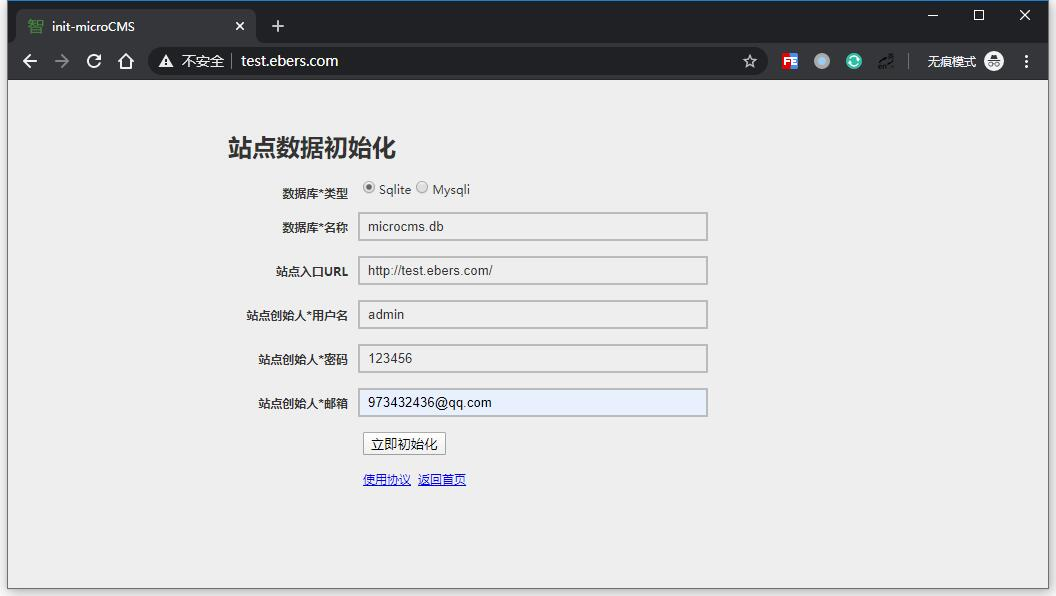
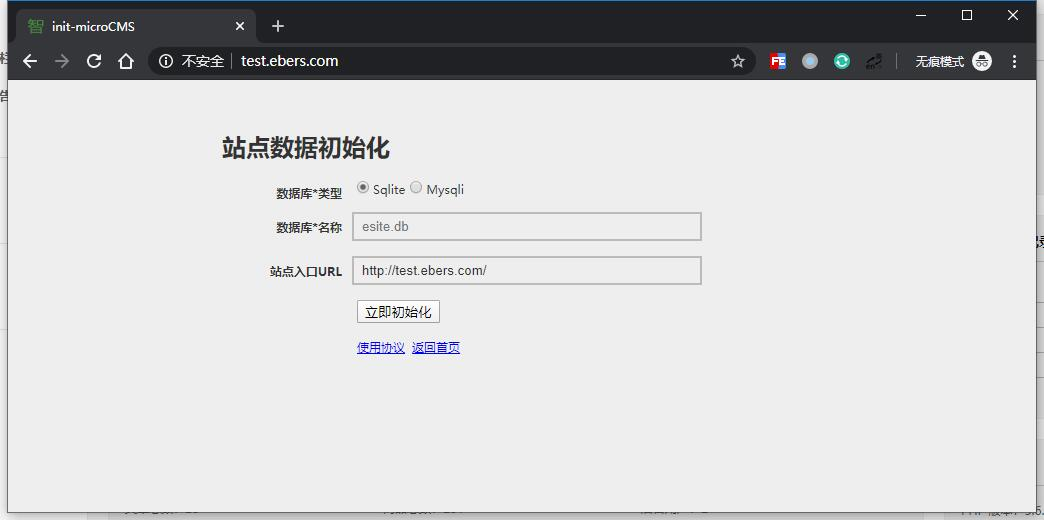
.

diff --git a/index.released.php b/index.released.php
@@ -27,7 +27,7 @@ S;
 		.calendarToday { background-color: #CE0000; text-align: center;}
 		.calendar .hitDay{ background-color: #FF9797; }
 		</style>
-	';protected static $date=array();private static $_instance;private function __construct(){}private function __clone(){}public static function app(){if(!(self::$_instance instanceof self)){self::$_instance=new self();self::$date=getdate(time());self::$monthLink=self::$monthLink?(self::$monthLink):getenv('SCRIPT_NAME')."?year=%s&month=%s";self::$dayLink=self::$dayLink?(self::$dayLink):getenv('SCRIPT_NAME')."?year=%s&month=%s&day=%s";}return self::$_instance;}public function getCalendarLink($month,$year){$year=str_pad($year,4,0,STR_PAD_LEFT);$month=str_pad($month,2,0,STR_PAD_LEFT);return sprintf(self::$monthLink,$year,$month>0?$month:'');}public function getDateLink($day,$month,$year){$year=str_pad($year,4,0,STR_PAD_LEFT);$month=str_pad($month,2,0,STR_PAD_LEFT);$day=str_pad($day,2,0,STR_PAD_LEFT);return in_array("{$year}-{$month}-{$day}",self::$hitDays)?sprintf(self::$dayLink,$year,$month,$day):'';}public function getCurrentMonthView(){return $this->getMonthView(self::$date["mon"],self::$date["year"]);}public function getCurrentYearView(){return $this->getYearView(self::$date['year']);}public function getMonthView($month,$year){$month=$month?$month:(self::$date['mon']);$year=$year?$year:(self::$date['year']);$s=self::$style;$s.=$this->getMonthHTML($month,$year);return $s;}public function getYearView($year){$s=self::$style;$s.=$this->getYearHTML($year);return $s;}private function getDaysInMonth($month,$year){if($month<1||$month>12||!isset(self::$daysInMonth[$month-1])){return 0;}$d=self::$daysInMonth[$month-1];if($month==2){if($year%4==0){if($year%100==0){if($year%400==0){if($year%1000==0){if($year%4000!=0){$d=29;}}else{$d=29;}}}else{$d=29;}}}return $d;}private function getMonthHTML($m,$y,$showYear=1){$s="";$a=$this->adjustDate($m,$y);$month=$a[0];$year=$a[1];$daysInMonth=$this->getDaysInMonth($month,$year);$date=getdate(mktime(12,0,0,$month,1,$year));$first=$date["wday"];$monthName=self::$monthNames[$month-1];$prev=$this->adjustDate($month-1,$year);$next=$this->adjustDate($month+1,$year);if($showYear==1){$prevMonth=$this->getCalendarLink($prev[0],$prev[1]);$nextMonth=$this->getCalendarLink($next[0],$next[1]);}else{$prevMonth="";$nextMonth="";}$header=sprintf('<a href="%s" class="calendarDateTitle">%s</a>',$this->getCalendarLink(($showYear>0?0:$month),$year),($monthName.(($showYear>0)?" {$year}":"")));$s.="<table class=\"calendar\">\n";$s.="<tr>\n";$s.="<td align=\"center\" valign=\"top\">".(($prevMonth=="")?"&nbsp;":"<a href=\"{$prevMonth}\">&lt;&lt;</a>")."</td>\n";$s.="<td align=\"center\" valign=\"top\" class=\"calendarHeader\" colspan=\"5\">{$header}</td>\n";$s.="<td align=\"center\" valign=\"top\">".(($nextMonth=="")?"&nbsp;":"<a href=\"{$nextMonth}\">&gt;&gt;</a>")."</td>\n";$s.="</tr>\n";$s.="<tr>\n";$s.="<td align=\"center\" valign=\"top\" class=\"calendarHeader\">".self::$dayNames[(self::$startDay)%7]."</td>\n";$s.="<td align=\"center\" valign=\"top\" class=\"calendarHeader\">".self::$dayNames[(self::$startDay+1)%7]."</td>\n";$s.="<td align=\"center\" valign=\"top\" class=\"calendarHeader\">".self::$dayNames[(self::$startDay+2)%7]."</td>\n";$s.="<td align=\"center\" valign=\"top\" class=\"calendarHeader\">".self::$dayNames[(self::$startDay+3)%7]."</td>\n";$s.="<td align=\"center\" valign=\"top\" class=\"calendarHeader\">".self::$dayNames[(self::$startDay+4)%7]."</td>\n";$s.="<td align=\"center\" valign=\"top\" class=\"calendarHeader\">".self::$dayNames[(self::$startDay+5)%7]."</td>\n";$s.="<td align=\"center\" valign=\"top\" class=\"calendarHeader\">".self::$dayNames[(self::$startDay+6)%7]."</td>\n";$s.="</tr>\n";$d=self::$startDay+1-$first;while($d>1){$d-=7;}$today=getdate(time());while($d<=$daysInMonth){$s.="<tr>\n";for($i=0;$i<7;$i++){$class=$this->isHitDay($d,$month,$year)?"hitDay":"";$class.=($year==$today["year"]&&$month==$today["mon"]&&$d==$today["mday"])?" calendarToday":" calendar";$s.="<td class=\"{$class}\" align=\"right\" valign=\"top\">";if($d>0&&$d<=$daysInMonth){$link=$this->getDateLink($d,$month,$year);$s.=(($link=="")?$d:"<a href=\"{$link}\">{$d}</a>");}else{$s.="&nbsp;";}$s.="</td>\n";$d++;}$s.="</tr>\n";}$s.="</table>\n";return $s;}private function getYearHTML($year){$s="";$prev=$this->getCalendarLink(0,$year-1);$next=$this->getCalendarLink(0,$year+1);$s.="<table class=\"calendar\" border=\"0\">\n";$s.="<tr>";$s.="<td align=\"center\" valign=\"top\" align=\"left\">".(($prev=="")?"&nbsp;":"<a href=\"{$prev}\">&lt;&lt;</a>")."</td>\n";$s.="<td class=\"calendarHeader\" valign=\"top\" align=\"center\">".((self::$startMonth>1)?$year." - ".($year+1):$year)."</td>\n";$s.="<td align=\"center\" valign=\"top\" align=\"right\">".(($next=="")?"&nbsp;":"<a href=\"{$next}\">&gt;&gt;</a>")."</td>\n";$s.="</tr>\n";$s.="<tr>";$s.="<td class=\"calendar\" valign=\"top\">".$this->getMonthHTML(0+self::$startMonth,$year,0)."</td>\n";$s.="<td class=\"calendar\" valign=\"top\">".$this->getMonthHTML(1+self::$startMonth,$year,0)."</td>\n";$s.="<td class=\"calendar\" valign=\"top\">".$this->getMonthHTML(2+self::$startMonth,$year,0)."</td>\n";$s.="</tr>\n";$s.="<tr>\n";$s.="<td class=\"calendar\" valign=\"top\">".$this->getMonthHTML(3+self::$startMonth,$year,0)."</td>\n";$s.="<td class=\"calendar\" valign=\"top\">".$this->getMonthHTML(4+self::$startMonth,$year,0)."</td>\n";$s.="<td class=\"calendar\" valign=\"top\">".$this->getMonthHTML(5+self::$startMonth,$year,0)."</td>\n";$s.="</tr>\n";$s.="<tr>\n";$s.="<td class=\"calendar\" valign=\"top\">".$this->getMonthHTML(6+self::$startMonth,$year,0)."</td>\n";$s.="<td class=\"calendar\" valign=\"top\">".$this->getMonthHTML(7+self::$startMonth,$year,0)."</td>\n";$s.="<td class=\"calendar\" valign=\"top\">".$this->getMonthHTML(8+self::$startMonth,$year,0)."</td>\n";$s.="</tr>\n";$s.="<tr>\n";$s.="<td class=\"calendar\" valign=\"top\">".$this->getMonthHTML(9+self::$startMonth,$year,0)."</td>\n";$s.="<td class=\"calendar\" valign=\"top\">".$this->getMonthHTML(10+self::$startMonth,$year,0)."</td>\n";$s.="<td class=\"calendar\" valign=\"top\">".$this->getMonthHTML(11+self::$startMonth,$year,0)."</td>\n";$s.="</tr>\n";$s.="</table>\n";return $s;}private function adjustDate($month,$year){$a=array();$a[0]=$month;$a[1]=$year;while($a[0]>12){$a[0]-=12;$a[1]++;}while($a[0]<=0){$a[0]+=12;$a[1]--;}return $a;}private function isHitDay($day,$month,$year){return in_array("{$year}-{$month}-".str_pad($day,2,0,STR_PAD_LEFT),self::$hitDays);}}interface Db_Drive{public function exec($sql);public function query($sql);public function getRow($sql,$model);public function getAll($sql);public function insert($table,$data,$ignore=false);public function insert_string($table,$data,$ignore=false);public function replace($table,$data);public function replace_string($table,$data);public function update($table,$args,$where='');public function update_string($table,$args,$where='');public function delete($table,$where);public function getCode($args);public function last_insert_id();public function get_info();public function getCache($sql,$expire_time=0);public function setCache($sql,$data);public function delCache();public function getTables();}class DBSqlite3 extends SQLite3 {protected $db_name='esite.db';public $info=array('error_code'=>0,'error_msg'=>'','changes'=>0,'queries'=>array());public $cache_path='cache/data-cache';public $expire_time=300;public $auth_key='';public function __construct($db_name=''){$this->db_name=$db_name?$db_name:$this->db_name;if(!file_exists($this->db_name)){file_put_contents($this->db_name,'');}$this->open($this->db_name);$this->get_info();if($this->info['error_code']>0){die($this->info['error_msg']);}return $this;}public function getCache($sql,$expire_time=0){$expire_time=$expire_time>0?$expire_time:$this->expire_time;$filename=$this->cache_path.'/'.md5(md5($this->auth_key).md5($sql)).'.cache';if(file_exists($filename)&&time()-filemtime($filename)<$expire_time){return (array)include($filename);}else{return null;}}public function setCache($sql,$data){$filename=$this->cache_path.'/'.md5(md5($this->auth_key).md5($sql)).'.cache';file_put_contents($filename,'<?php return '.var_export($data,1).';?>');}public function delCache(){$files=glob("{$this->cache_path}/*.cache");if($files){array_map('unlink',$files);}}public function get_info(){$this->info['error_code']=$this->lastErrorCode();$this->info['error_msg']=$this->lastErrorMsg();$this->info['changes']=$this->changes();$this->info['queries']=count($this->info['queries'])>50?array_slice($this->info['queries'],-50):$this->info['queries'];return $this->info;}public function query($sql){$res=parent::query($sql);$this->info['queries'][]=$sql;$this->get_info();return $res;}function exec($sql){$res=parent::exec($sql);$this->info['queries'][]=$sql;$this->get_info();return $res;}public function getRow($sql,$model=SQLITE3_ASSOC){if(!is_null($res=$this->getCache($sql))){return $res;}$res=$this->query($sql)->fetchArray($model);$this->setCache($sql,$res);return $res;}public function getAll($sql){if(!is_null($res=$this->getCache($sql))){return $res;}$res=array();if($result=$this->query($sql)){while($row=$result->fetchArray(SQLITE3_ASSOC)){$res[]=$row;}unset($result);}$this->setCache($sql,$res);return $res;}function insert($table,$data,$ignore=false){$sql=$this->insert_string($table,$data,$ignore);return $this->exec($sql);}function insert_string($table,$data,$ignore=false){$sql=sprintf('INSERT %s INTO %s (%s) VALUES (%s)',($ignore?'OR IGNORE':''),($table),(sprintf('%s',implode(',',array_keys($data)))),(sprintf("'%s'",implode("','",array_values($data)))));$sql.=";\n";return $sql;}function replace($table,$data){$sql=$this->replace_string($table,$data);return $this->exec($sql);}function replace_string($table,$data){$sql=sprintf('REPLACE INTO %s (%s) VALUES (%s)',($table),(sprintf('%s',implode(',',array_keys($data)))),(sprintf("'%s'",implode("','",array_values($data)))));$sql.=";\n";return $sql;}function update($table,$args,$where=''){$sql=$this->update_string($table,$args,$where);return $this->exec($sql);}function update_string($table,$args,$where=''){$code=self::getCode($args);$sql="UPDATE {$table} SET ";$sql.=$code;$sql.=($where==''?'':" Where {$where}");$sql.=";\n";return $sql;}function delete($table,$where){$sql="DELETE FROM {$table} Where {$where}";$sql.=';';$res=$this->exec($sql);return $res;}function getCode($args){$code=array();if(is_array($args)){foreach($args as $k=>$v){$code[]="{$k}='{$v}'";}}return implode(',',$code);}function last_insert_id(){$sql="select last_insert_rowid() newid";$res=$this->getRow($sql);return isset($res['newid'])?intval($res['newid']):0;}function getTables(){$res=$this->getAll("SELECT name FROM sqlite_master where type='table' and tbl_name not like 'sqlite_%'");return array_column($res,'name');}function __destruct(){$this->close();}}class Db_Mysql{protected static $conn;protected $dbname='';protected $username='';protected $password='';protected $host='localhost';public $info=array('error_code'=>0,'error_msg'=>'','changes'=>0,'queries'=>array());public $cache_path='cache/data-cache';public $expire_time=300;public $auth_key='';public function __construct($host='',$username='',$password='',$dbname=''){$this->host=$host;$this->username=$username;$this->password=$password;$this->dbname=$dbname;self::$conn=mysqli_connect($this->host,$this->username,$this->password,$this->dbname);if(!self::$conn){die(mysqli_error(self::$conn));}mysqli_query(self::$conn,'set names utf8');return $this;}public function getCache($sql,$expire_time=0){$expire_time=$expire_time>0?$expire_time:$this->expire_time;$filename=$this->cache_path.'/'.md5(md5($this->auth_key).md5($sql)).'.cache';if(file_exists($filename)&&time()-filemtime($filename)<$expire_time){return (array)include($filename);}else{return null;}}public function setCache($sql,$data){$filename=$this->cache_path.'/'.md5(md5($this->auth_key).md5($sql)).'.cache';file_put_contents($filename,'<?php return '.var_export($data,1).';?>');}public function delCache(){$files=glob("{$this->cache_path}/*.cache");if($files){array_map('unlink',$files);}}public function get_info(){$this->info['error_code']=mysqli_errno(self::$conn);$this->info['error_msg']=mysqli_error(self::$conn);$this->info['changes']=mysqli_affected_rows(self::$conn);$this->info['queries']=count($this->info['queries'])>50?array_slice($this->info['queries'],-50):$this->info['queries'];return $this->info;}public function exec($sql){$res=self::query($sql);return $res;}public function query($sql){$res=mysqli_query(self::$conn,$sql);$this->info['queries'][]=$sql;$this->get_info();return $res;}public function getRow($sql,$model=MYSQLI_ASSOC){if(!is_null($res=$this->getCache($sql))){return $res;}$res=$this->query($sql);$row=mysqli_fetch_array($res,MYSQLI_ASSOC);mysqli_free_result($res);unset($res);$this->setCache($sql,$row);return $row;}public function getAll($sql){if(!is_null($res=$this->getCache($sql))){return $res;}$res=$this->query($sql);$list=mysqli_fetch_all($res,MYSQLI_ASSOC);mysqli_free_result($res);unset($res);$this->setCache($sql,$list);return $list;}public function insert($table,$data,$ignore=false){$sql=$this->insert_string($table,$data,$ignore);return $this->query($sql);}public function insert_string($table,$data,$ignore=false){$sql=sprintf('INSERT %s INTO %s (%s) VALUES (%s)',($ignore?'IGNORE':''),($table),(sprintf('%s',implode(',',array_keys($data)))),(sprintf("'%s'",implode("','",array_values($data)))));$sql.=";\n";return $sql;}public function replace($table,$data){$sql=$this->replace_string($table,$data);return $this->query($sql);}public function replace_string($table,$data){$sql=sprintf('REPLACE INTO %s (%s) VALUES (%s)',($table),(sprintf('%s',implode(',',array_keys($data)))),(sprintf("'%s'",implode("','",array_values($data)))));$sql.=";\n";return $sql;}public function update($table,$args,$where=''){$sql=$this->update_string($table,$args,$where);return $this->query($sql);}public function update_string($table,$args,$where=''){$code=self::getCode($args);$sql="UPDATE {$table} SET ";$sql.=$code;$sql.=($where==''?'':" Where {$where}");$sql.=";\n";return $sql;}public function delete($table,$where){$sql="DELETE FROM {$table} Where {$where}";$sql.=';';return $this->query($sql);}public function getCode($args){$code=array();if(is_array($args)){foreach($args as $k=>$v){$code[]="{$k}='{$v}'";}}return implode(',',$code);}function last_insert_id(){$sql="select last_insert_id() newid";$res=$this->getRow($sql);return isset($res['newid'])?intval($res['newid']):0;}function escapeString($str=''){return addslashes($str);}function getTables(){$res=$this->getAll("show tables");return array_column($res,0);}function __destruct(){mysqli_close(self::$conn);}}class DB{protected static $_db;public static $call_struct_init=null;public static function init($dbtype='sqlite',$dbname='',$host='',$username='',$password=''){switch($dbtype){case 'mysqli':self::$_db=new Db_Mysql($host,$username,$password,$dbname);$sql="SELECT COUNT(*) as total FROM information_schema.TABLES where TABLE_SCHEMA = '{$dbname}'";$res=self::$_db->getRow($sql);if((int)$res['total']<2){is_array(self::$call_struct_init)&&self::$call_struct_init?call_user_func_array(self::$call_struct_init,array(self::$_db)):null;}break;default:self::$_db=new DBSqlite3($dbname);$sql="SELECT count(*) as total FROM sqlite_master WHERE type='table' ";$res=self::$_db->getRow($sql);if((int)$res['total']<2){is_array(self::$call_struct_init)&&self::$call_struct_init?call_user_func_array(self::$call_struct_init,array(self::$_db)):null;}break;}return self::$_db;}function __construct(){}}class Esite{public $site_id='@@site_id@@';public $baseurl='@@baseurl@@';public $server_baseurl="http://esitecms.ebers.com/ecms";public $baseurls=array();public $pay_type=array('paypal','alipay');public $api_version='20191216193212';protected $auth_key='@@auth_key@@';protected $db_name='@@db_name@@';protected $db_type='@@db_type@@';protected $db_host='@@db_host@@';protected $db_username='@@db_username@@';protected $db_password='@@db_password@@';public $page_cache='';public $data_cache='';public $page_template='';public $raw_data='';public $cfg=null;public $tpl_expire=300;public $tpl_extension='xml|html';public $themes='default';public $user_device='pc';public $protocol='http';public $url='';public $request_uri='';public $url_maps=array();public $request=array();public static $db;public $languages=array();public $tpl_stime;public $tpl_rtime;protected static $debug=false;private static $_instance;private function __construct(){}private function __clone(){}public static function app(){if(!(self::$_instance instanceof self)){self::$_instance=new self();self::$_instance->init();}return self::$_instance;}protected function init(){set_time_limit(0);ignore_user_abort(false);$_SESSION['user_id']=isset($_SESSION['user_id'])?$_SESSION['user_id']:0;$_SESSION['role']=isset($_SESSION['role'])&&$_SESSION['role']=='admin'?$_SESSION['role']:'user';$this->page_cache=APPPATH.'/cache/page-cache';$this->data_cache=APPPATH.'/cache/data-cache';Helper::make_dir($this->page_cache);Helper::make_dir($this->data_cache);$this->tpl_stime=Helper::microtime_float();$this->protocol=((isset($_SERVER['HTTPS'])&&$_SERVER['HTTPS']=='on')||(isset($_SERVER['HTTP_X_FORWARDED_PROTO'])&&strtolower($_SERVER['HTTP_X_FORWARDED_PROTO'])=='https')||(isset($_SERVER['HTTP_FRONT_END_HTTPS'])&&strtolower($_SERVER['HTTP_FRONT_END_HTTPS'])!=='off'))?'https':'http';$this->baseurl=str_ireplace(array('http:','https:'),"{$this->protocol}:",$this->baseurl);$this->baseurls=$this->baseurl?parse_url($this->baseurl):$this->baseurls;$_REQUEST=substr(key($_REQUEST),0,1)=='/'?array_slice($_REQUEST,1):$_REQUEST;$this->request=array_merge($_REQUEST,(preg_match_all('@[\?|\&]([^=]+)=([^\&]*)@i',urldecode($_SERVER['REQUEST_URI']),$match)?(array_combine(array_map(function($str){return trim($str,'&');},$match[1]),$match[2])):array()));$this->request['ajax']=(isset($_SERVER["HTTP_X_REQUESTED_WITH"])&&strtolower($_SERVER["HTTP_X_REQUESTED_WITH"])=="xmlhttprequest")||(isset($this->request['ajax'])&&strtolower($this->request['ajax'])=='yes')?'yes':'no';$this->request['act']=isset($this->request['act'])?$this->request['act']:'';$this->url=$this->request_uri=isset($_SERVER['REQUEST_URI'])?$_SERVER['REQUEST_URI']:'/';$this->user_device=Helper::isMobile()?'mobile':'pc';$this->api_init();DB::$call_struct_init=array($this,'db_struct_init');if(!self::$db){self::$db=DB::init($this->db_type,$this->db_name,$this->db_host,$this->db_username,$this->db_password);self::$db->auth_key=$this->auth_key;$this->site_config();}if(!$this->tpl_demo_mode()){$this->themes=($this->user_device=='mobile'?@$this->cfg['site_info']['mobile_theme']:@$this->cfg['site_info']['site_theme']);$this->page_template=APPPATH."/template/{$this->themes}";}if(stripos($this->request_uri,rtrim($this->baseurls['path'],'/').'/admin')!==false){$this->themes='admin';$this->page_template=APPPATH."/template";}$this->set_url_maps();$this->url_route();self::$db->expire_time=isset($this->cfg['site_info']['db_cache_time'])?intval($this->cfg['site_info']['db_cache_time']):3600;$this->tpl_expire=isset($this->cfg['site_config']['tpl_cache_time'])?intval($this->cfg['site_config']['tpl_cache_time']):$this->tpl_expire;$this->tpl_expire=isset($_SERVER['QUERY_STRING'])&&strlen($_SERVER['QUERY_STRING'])>0?0:$this->tpl_expire;if(!file_exists($this->page_template)){Helper::make_dir($this->page_template);file_put_contents("{$this->page_template}/index.html",'<!DOCTYPE html><html><head><title>Home page</title></head><body>This is default homepage.</body></html>');}$this->set_languages();return $this;}protected function api_init(){$title='站点api更新';$init=preg_match('@\$db_type\s*=\s*\'\@\@db_type\@\@\'\s*;@i',($api_content=file_get_contents(__FILE__)),$match);$is_request=isset($this->request['db_type'])&&isset($this->request['db_name'])&&isset($this->request['baseurl'])&&isset($this->request['username'])&&isset($this->request['password'])&&isset($this->request['email'])&&($this->request['db_type']=='sqlite'||(isset($this->request['db_host'])&&strlen($this->request['db_host'])&&isset($this->request['db_username'])&&strlen($this->request['db_username'])&&isset($this->request['db_password'])));$tpl=<<<S
+	';protected static $date=array();private static $_instance;private function __construct(){}private function __clone(){}public static function app(){if(!(self::$_instance instanceof self)){self::$_instance=new self();self::$date=getdate(time());self::$monthLink=self::$monthLink?(self::$monthLink):getenv('SCRIPT_NAME')."?year=%s&month=%s";self::$dayLink=self::$dayLink?(self::$dayLink):getenv('SCRIPT_NAME')."?year=%s&month=%s&day=%s";}return self::$_instance;}public function getCalendarLink($month,$year){$year=str_pad($year,4,0,STR_PAD_LEFT);$month=str_pad($month,2,0,STR_PAD_LEFT);return sprintf(self::$monthLink,$year,$month>0?$month:'');}public function getDateLink($day,$month,$year){$year=str_pad($year,4,0,STR_PAD_LEFT);$month=str_pad($month,2,0,STR_PAD_LEFT);$day=str_pad($day,2,0,STR_PAD_LEFT);return in_array("{$year}-{$month}-{$day}",self::$hitDays)?sprintf(self::$dayLink,$year,$month,$day):'';}public function getCurrentMonthView(){return $this->getMonthView(self::$date["mon"],self::$date["year"]);}public function getCurrentYearView(){return $this->getYearView(self::$date['year']);}public function getMonthView($month,$year){$month=$month?$month:(self::$date['mon']);$year=$year?$year:(self::$date['year']);$s=self::$style;$s.=$this->getMonthHTML($month,$year);return $s;}public function getYearView($year){$s=self::$style;$s.=$this->getYearHTML($year);return $s;}private function getDaysInMonth($month,$year){if($month<1||$month>12||!isset(self::$daysInMonth[$month-1])){return 0;}$d=self::$daysInMonth[$month-1];if($month==2){if($year%4==0){if($year%100==0){if($year%400==0){if($year%1000==0){if($year%4000!=0){$d=29;}}else{$d=29;}}}else{$d=29;}}}return $d;}private function getMonthHTML($m,$y,$showYear=1){$s="";$a=$this->adjustDate($m,$y);$month=$a[0];$year=$a[1];$daysInMonth=$this->getDaysInMonth($month,$year);$date=getdate(mktime(12,0,0,$month,1,$year));$first=$date["wday"];$monthName=self::$monthNames[$month-1];$prev=$this->adjustDate($month-1,$year);$next=$this->adjustDate($month+1,$year);if($showYear==1){$prevMonth=$this->getCalendarLink($prev[0],$prev[1]);$nextMonth=$this->getCalendarLink($next[0],$next[1]);}else{$prevMonth="";$nextMonth="";}$header=sprintf('<a href="%s" class="calendarDateTitle">%s</a>',$this->getCalendarLink(($showYear>0?0:$month),$year),($monthName.(($showYear>0)?" {$year}":"")));$s.="<table class=\"calendar\">\n";$s.="<tr>\n";$s.="<td align=\"center\" valign=\"top\">".(($prevMonth=="")?"&nbsp;":"<a href=\"{$prevMonth}\">&lt;&lt;</a>")."</td>\n";$s.="<td align=\"center\" valign=\"top\" class=\"calendarHeader\" colspan=\"5\">{$header}</td>\n";$s.="<td align=\"center\" valign=\"top\">".(($nextMonth=="")?"&nbsp;":"<a href=\"{$nextMonth}\">&gt;&gt;</a>")."</td>\n";$s.="</tr>\n";$s.="<tr>\n";$s.="<td align=\"center\" valign=\"top\" class=\"calendarHeader\">".self::$dayNames[(self::$startDay)%7]."</td>\n";$s.="<td align=\"center\" valign=\"top\" class=\"calendarHeader\">".self::$dayNames[(self::$startDay+1)%7]."</td>\n";$s.="<td align=\"center\" valign=\"top\" class=\"calendarHeader\">".self::$dayNames[(self::$startDay+2)%7]."</td>\n";$s.="<td align=\"center\" valign=\"top\" class=\"calendarHeader\">".self::$dayNames[(self::$startDay+3)%7]."</td>\n";$s.="<td align=\"center\" valign=\"top\" class=\"calendarHeader\">".self::$dayNames[(self::$startDay+4)%7]."</td>\n";$s.="<td align=\"center\" valign=\"top\" class=\"calendarHeader\">".self::$dayNames[(self::$startDay+5)%7]."</td>\n";$s.="<td align=\"center\" valign=\"top\" class=\"calendarHeader\">".self::$dayNames[(self::$startDay+6)%7]."</td>\n";$s.="</tr>\n";$d=self::$startDay+1-$first;while($d>1){$d-=7;}$today=getdate(time());while($d<=$daysInMonth){$s.="<tr>\n";for($i=0;$i<7;$i++){$class=$this->isHitDay($d,$month,$year)?"hitDay":"";$class.=($year==$today["year"]&&$month==$today["mon"]&&$d==$today["mday"])?" calendarToday":" calendar";$s.="<td class=\"{$class}\" align=\"right\" valign=\"top\">";if($d>0&&$d<=$daysInMonth){$link=$this->getDateLink($d,$month,$year);$s.=(($link=="")?$d:"<a href=\"{$link}\">{$d}</a>");}else{$s.="&nbsp;";}$s.="</td>\n";$d++;}$s.="</tr>\n";}$s.="</table>\n";return $s;}private function getYearHTML($year){$s="";$prev=$this->getCalendarLink(0,$year-1);$next=$this->getCalendarLink(0,$year+1);$s.="<table class=\"calendar\" border=\"0\">\n";$s.="<tr>";$s.="<td align=\"center\" valign=\"top\" align=\"left\">".(($prev=="")?"&nbsp;":"<a href=\"{$prev}\">&lt;&lt;</a>")."</td>\n";$s.="<td class=\"calendarHeader\" valign=\"top\" align=\"center\">".((self::$startMonth>1)?$year." - ".($year+1):$year)."</td>\n";$s.="<td align=\"center\" valign=\"top\" align=\"right\">".(($next=="")?"&nbsp;":"<a href=\"{$next}\">&gt;&gt;</a>")."</td>\n";$s.="</tr>\n";$s.="<tr>";$s.="<td class=\"calendar\" valign=\"top\">".$this->getMonthHTML(0+self::$startMonth,$year,0)."</td>\n";$s.="<td class=\"calendar\" valign=\"top\">".$this->getMonthHTML(1+self::$startMonth,$year,0)."</td>\n";$s.="<td class=\"calendar\" valign=\"top\">".$this->getMonthHTML(2+self::$startMonth,$year,0)."</td>\n";$s.="</tr>\n";$s.="<tr>\n";$s.="<td class=\"calendar\" valign=\"top\">".$this->getMonthHTML(3+self::$startMonth,$year,0)."</td>\n";$s.="<td class=\"calendar\" valign=\"top\">".$this->getMonthHTML(4+self::$startMonth,$year,0)."</td>\n";$s.="<td class=\"calendar\" valign=\"top\">".$this->getMonthHTML(5+self::$startMonth,$year,0)."</td>\n";$s.="</tr>\n";$s.="<tr>\n";$s.="<td class=\"calendar\" valign=\"top\">".$this->getMonthHTML(6+self::$startMonth,$year,0)."</td>\n";$s.="<td class=\"calendar\" valign=\"top\">".$this->getMonthHTML(7+self::$startMonth,$year,0)."</td>\n";$s.="<td class=\"calendar\" valign=\"top\">".$this->getMonthHTML(8+self::$startMonth,$year,0)."</td>\n";$s.="</tr>\n";$s.="<tr>\n";$s.="<td class=\"calendar\" valign=\"top\">".$this->getMonthHTML(9+self::$startMonth,$year,0)."</td>\n";$s.="<td class=\"calendar\" valign=\"top\">".$this->getMonthHTML(10+self::$startMonth,$year,0)."</td>\n";$s.="<td class=\"calendar\" valign=\"top\">".$this->getMonthHTML(11+self::$startMonth,$year,0)."</td>\n";$s.="</tr>\n";$s.="</table>\n";return $s;}private function adjustDate($month,$year){$a=array();$a[0]=$month;$a[1]=$year;while($a[0]>12){$a[0]-=12;$a[1]++;}while($a[0]<=0){$a[0]+=12;$a[1]--;}return $a;}private function isHitDay($day,$month,$year){return in_array("{$year}-{$month}-".str_pad($day,2,0,STR_PAD_LEFT),self::$hitDays);}}interface Db_Drive{public function exec($sql);public function query($sql);public function getRow($sql,$model);public function getAll($sql);public function insert($table,$data,$ignore=false);public function insert_string($table,$data,$ignore=false);public function replace($table,$data);public function replace_string($table,$data);public function update($table,$args,$where='');public function update_string($table,$args,$where='');public function delete($table,$where);public function getCode($args);public function last_insert_id();public function get_info();public function getCache($sql,$expire_time=0);public function setCache($sql,$data);public function delCache();public function getTables();}class DBSqlite3 extends SQLite3 {protected $db_name='esite.db';public $info=array('error_code'=>0,'error_msg'=>'','changes'=>0,'queries'=>array());public $cache_path='cache/data-cache';public $expire_time=300;public $auth_key='';public function __construct($db_name=''){$this->db_name=$db_name?$db_name:$this->db_name;if(!file_exists($this->db_name)){file_put_contents($this->db_name,'');}$this->open($this->db_name);$this->get_info();if($this->info['error_code']>0){die($this->info['error_msg']);}return $this;}public function getCache($sql,$expire_time=0){$expire_time=$expire_time>0?$expire_time:$this->expire_time;$filename=$this->cache_path.'/'.md5(md5($this->auth_key).md5($sql)).'.cache';if(file_exists($filename)&&time()-filemtime($filename)<$expire_time){return (array)include($filename);}else{return null;}}public function setCache($sql,$data){$filename=$this->cache_path.'/'.md5(md5($this->auth_key).md5($sql)).'.cache';file_put_contents($filename,'<?php return '.var_export($data,1).';?>');}public function delCache(){$files=glob("{$this->cache_path}/*.cache");if($files){array_map('unlink',$files);}}public function get_info(){$this->info['error_code']=$this->lastErrorCode();$this->info['error_msg']=$this->lastErrorMsg();$this->info['changes']=$this->changes();$this->info['queries']=count($this->info['queries'])>50?array_slice($this->info['queries'],-50):$this->info['queries'];return $this->info;}public function query($sql){$res=parent::query($sql);$this->info['queries'][]=$sql;$this->get_info();return $res;}function exec($sql){$res=parent::exec($sql);$this->info['queries'][]=$sql;$this->get_info();return $res;}public function getRow($sql,$model=SQLITE3_ASSOC){if(!is_null($res=$this->getCache($sql))){return $res;}$res=$this->query($sql)->fetchArray($model);$this->setCache($sql,$res);return $res;}public function getAll($sql){if(!is_null($res=$this->getCache($sql))){return $res;}$res=array();if($result=$this->query($sql)){while($row=$result->fetchArray(SQLITE3_ASSOC)){$res[]=$row;}unset($result);}$this->setCache($sql,$res);return $res;}function insert($table,$data,$ignore=false){$sql=$this->insert_string($table,$data,$ignore);return $this->exec($sql);}function insert_string($table,$data,$ignore=false){$sql=sprintf('INSERT %s INTO %s (%s) VALUES (%s)',($ignore?'OR IGNORE':''),($table),(sprintf('%s',implode(',',array_keys($data)))),(sprintf("'%s'",implode("','",array_values($data)))));$sql.=";\n";return $sql;}function replace($table,$data){$sql=$this->replace_string($table,$data);return $this->exec($sql);}function replace_string($table,$data){$sql=sprintf('REPLACE INTO %s (%s) VALUES (%s)',($table),(sprintf('%s',implode(',',array_keys($data)))),(sprintf("'%s'",implode("','",array_values($data)))));$sql.=";\n";return $sql;}function update($table,$args,$where=''){$sql=$this->update_string($table,$args,$where);return $this->exec($sql);}function update_string($table,$args,$where=''){$code=self::getCode($args);$sql="UPDATE {$table} SET ";$sql.=$code;$sql.=($where==''?'':" Where {$where}");$sql.=";\n";return $sql;}function delete($table,$where){$sql="DELETE FROM {$table} Where {$where}";$sql.=';';$res=$this->exec($sql);return $res;}function getCode($args){$code=array();if(is_array($args)){foreach($args as $k=>$v){$code[]="{$k}='{$v}'";}}return implode(',',$code);}function last_insert_id(){$sql="select last_insert_rowid() newid";$res=$this->getRow($sql);return isset($res['newid'])?intval($res['newid']):0;}function getTables(){$res=$this->getAll("SELECT name FROM sqlite_master where type='table' and tbl_name not like 'sqlite_%'");return array_column($res,'name');}function __destruct(){$this->close();}}class Db_Mysql{protected static $conn;protected $dbname='';protected $username='';protected $password='';protected $host='localhost';public $info=array('error_code'=>0,'error_msg'=>'','changes'=>0,'queries'=>array());public $cache_path='cache/data-cache';public $expire_time=300;public $auth_key='';public function __construct($host='',$username='',$password='',$dbname=''){$this->host=$host;$this->username=$username;$this->password=$password;$this->dbname=$dbname;self::$conn=mysqli_connect($this->host,$this->username,$this->password,$this->dbname);if(!self::$conn){die(mysqli_error(self::$conn));}mysqli_query(self::$conn,'set names utf8');return $this;}public function getCache($sql,$expire_time=0){$expire_time=$expire_time>0?$expire_time:$this->expire_time;$filename=$this->cache_path.'/'.md5(md5($this->auth_key).md5($sql)).'.cache';if(file_exists($filename)&&time()-filemtime($filename)<$expire_time){return (array)include($filename);}else{return null;}}public function setCache($sql,$data){$filename=$this->cache_path.'/'.md5(md5($this->auth_key).md5($sql)).'.cache';file_put_contents($filename,'<?php return '.var_export($data,1).';?>');}public function delCache(){$files=glob("{$this->cache_path}/*.cache");if($files){array_map('unlink',$files);}}public function get_info(){$this->info['error_code']=mysqli_errno(self::$conn);$this->info['error_msg']=mysqli_error(self::$conn);$this->info['changes']=mysqli_affected_rows(self::$conn);$this->info['queries']=count($this->info['queries'])>50?array_slice($this->info['queries'],-50):$this->info['queries'];return $this->info;}public function exec($sql){$res=self::query($sql);return $res;}public function query($sql){$res=mysqli_query(self::$conn,$sql);$this->info['queries'][]=$sql;$this->get_info();return $res;}public function getRow($sql,$model=MYSQLI_ASSOC){if(!is_null($res=$this->getCache($sql))){return $res;}$res=$this->query($sql);$row=mysqli_fetch_array($res,MYSQLI_ASSOC);mysqli_free_result($res);unset($res);$this->setCache($sql,$row);return $row;}public function getAll($sql){if(!is_null($res=$this->getCache($sql))){return $res;}$res=$this->query($sql);$list=mysqli_fetch_all($res,MYSQLI_ASSOC);mysqli_free_result($res);unset($res);$this->setCache($sql,$list);return $list;}public function insert($table,$data,$ignore=false){$sql=$this->insert_string($table,$data,$ignore);return $this->query($sql);}public function insert_string($table,$data,$ignore=false){$sql=sprintf('INSERT %s INTO %s (%s) VALUES (%s)',($ignore?'IGNORE':''),($table),(sprintf('%s',implode(',',array_keys($data)))),(sprintf("'%s'",implode("','",array_values($data)))));$sql.=";\n";return $sql;}public function replace($table,$data){$sql=$this->replace_string($table,$data);return $this->query($sql);}public function replace_string($table,$data){$sql=sprintf('REPLACE INTO %s (%s) VALUES (%s)',($table),(sprintf('%s',implode(',',array_keys($data)))),(sprintf("'%s'",implode("','",array_values($data)))));$sql.=";\n";return $sql;}public function update($table,$args,$where=''){$sql=$this->update_string($table,$args,$where);return $this->query($sql);}public function update_string($table,$args,$where=''){$code=self::getCode($args);$sql="UPDATE {$table} SET ";$sql.=$code;$sql.=($where==''?'':" Where {$where}");$sql.=";\n";return $sql;}public function delete($table,$where){$sql="DELETE FROM {$table} Where {$where}";$sql.=';';return $this->query($sql);}public function getCode($args){$code=array();if(is_array($args)){foreach($args as $k=>$v){$code[]="{$k}='{$v}'";}}return implode(',',$code);}function last_insert_id(){$sql="select last_insert_id() newid";$res=$this->getRow($sql);return isset($res['newid'])?intval($res['newid']):0;}function escapeString($str=''){return addslashes($str);}function getTables(){$res=$this->getAll("show tables");return array_column($res,0);}function __destruct(){mysqli_close(self::$conn);}}class DB{protected static $_db;public static $call_struct_init=null;public static function init($dbtype='sqlite',$dbname='',$host='',$username='',$password=''){switch($dbtype){case 'mysqli':self::$_db=new Db_Mysql($host,$username,$password,$dbname);$sql="SELECT COUNT(*) as total FROM information_schema.TABLES where TABLE_SCHEMA = '{$dbname}'";$res=self::$_db->getRow($sql);if((int)$res['total']<2){is_array(self::$call_struct_init)&&self::$call_struct_init?call_user_func_array(self::$call_struct_init,array(self::$_db)):null;}break;default:self::$_db=new DBSqlite3($dbname);$sql="SELECT count(*) as total FROM sqlite_master WHERE type='table' ";$res=self::$_db->getRow($sql);if((int)$res['total']<2){is_array(self::$call_struct_init)&&self::$call_struct_init?call_user_func_array(self::$call_struct_init,array(self::$_db)):null;}break;}return self::$_db;}function __construct(){}}class Esite{public $site_id='@@site_id@@';public $baseurl='@@baseurl@@';public $server_baseurl="http://esitecms.ebers.com/ecms";public $baseurls=array();public $pay_type=array('paypal','alipay');public $api_version='20191216193423';protected $auth_key='@@auth_key@@';protected $db_name='@@db_name@@';protected $db_type='@@db_type@@';protected $db_host='@@db_host@@';protected $db_username='@@db_username@@';protected $db_password='@@db_password@@';public $page_cache='';public $data_cache='';public $page_template='';public $raw_data='';public $cfg=null;public $tpl_expire=300;public $tpl_extension='xml|html';public $themes='default';public $user_device='pc';public $protocol='http';public $url='';public $request_uri='';public $url_maps=array();public $request=array();public static $db;public $languages=array();public $tpl_stime;public $tpl_rtime;protected static $debug=false;private static $_instance;private function __construct(){}private function __clone(){}public static function app(){if(!(self::$_instance instanceof self)){self::$_instance=new self();self::$_instance->init();}return self::$_instance;}protected function init(){set_time_limit(0);ignore_user_abort(false);$_SESSION['user_id']=isset($_SESSION['user_id'])?$_SESSION['user_id']:0;$_SESSION['role']=isset($_SESSION['role'])&&$_SESSION['role']=='admin'?$_SESSION['role']:'user';$this->page_cache=APPPATH.'/cache/page-cache';$this->data_cache=APPPATH.'/cache/data-cache';Helper::make_dir($this->page_cache);Helper::make_dir($this->data_cache);$this->tpl_stime=Helper::microtime_float();$this->protocol=((isset($_SERVER['HTTPS'])&&$_SERVER['HTTPS']=='on')||(isset($_SERVER['HTTP_X_FORWARDED_PROTO'])&&strtolower($_SERVER['HTTP_X_FORWARDED_PROTO'])=='https')||(isset($_SERVER['HTTP_FRONT_END_HTTPS'])&&strtolower($_SERVER['HTTP_FRONT_END_HTTPS'])!=='off'))?'https':'http';$this->baseurl=str_ireplace(array('http:','https:'),"{$this->protocol}:",$this->baseurl);$this->baseurls=$this->baseurl?parse_url($this->baseurl):$this->baseurls;$_REQUEST=substr(key($_REQUEST),0,1)=='/'?array_slice($_REQUEST,1):$_REQUEST;$this->request=array_merge($_REQUEST,(preg_match_all('@[\?|\&]([^=]+)=([^\&]*)@i',urldecode($_SERVER['REQUEST_URI']),$match)?(array_combine(array_map(function($str){return trim($str,'&');},$match[1]),$match[2])):array()));$this->request['ajax']=(isset($_SERVER["HTTP_X_REQUESTED_WITH"])&&strtolower($_SERVER["HTTP_X_REQUESTED_WITH"])=="xmlhttprequest")||(isset($this->request['ajax'])&&strtolower($this->request['ajax'])=='yes')?'yes':'no';$this->request['act']=isset($this->request['act'])?$this->request['act']:'';$this->url=$this->request_uri=isset($_SERVER['REQUEST_URI'])?$_SERVER['REQUEST_URI']:'/';$this->user_device=Helper::isMobile()?'mobile':'pc';$this->api_init();DB::$call_struct_init=array($this,'db_struct_init');if(!self::$db){self::$db=DB::init($this->db_type,$this->db_name,$this->db_host,$this->db_username,$this->db_password);self::$db->auth_key=$this->auth_key;$this->site_config();}if(!$this->tpl_demo_mode()){$this->themes=($this->user_device=='mobile'?@$this->cfg['site_info']['mobile_theme']:@$this->cfg['site_info']['site_theme']);$this->page_template=APPPATH."/template/{$this->themes}";}if(stripos($this->request_uri,rtrim($this->baseurls['path'],'/').'/admin')!==false){$this->themes='admin';$this->page_template=APPPATH."/template";}$this->set_url_maps();$this->url_route();self::$db->expire_time=isset($this->cfg['site_info']['db_cache_time'])?intval($this->cfg['site_info']['db_cache_time']):3600;$this->tpl_expire=isset($this->cfg['site_config']['tpl_cache_time'])?intval($this->cfg['site_config']['tpl_cache_time']):$this->tpl_expire;$this->tpl_expire=isset($_SERVER['QUERY_STRING'])&&strlen($_SERVER['QUERY_STRING'])>0?0:$this->tpl_expire;if(!file_exists($this->page_template)){Helper::make_dir($this->page_template);file_put_contents("{$this->page_template}/index.html",'<!DOCTYPE html><html><head><title>Home page</title></head><body>This is default homepage.</body></html>');}$this->set_languages();return $this;}protected function api_init(){$title='站点api更新';$init=preg_match('@\$db_type\s*=\s*\'\@\@db_type\@\@\'\s*;@i',($api_content=file_get_contents(__FILE__)),$match);$is_request=isset($this->request['db_type'])&&isset($this->request['db_name'])&&isset($this->request['baseurl'])&&isset($this->request['username'])&&isset($this->request['password'])&&isset($this->request['email'])&&($this->request['db_type']=='sqlite'||(isset($this->request['db_host'])&&strlen($this->request['db_host'])&&isset($this->request['db_username'])&&strlen($this->request['db_username'])&&isset($this->request['db_password'])));$tpl=<<<S
 <!DOCTYPE html><html><head><title>init-microCMS</title><meta http-equiv="Content-Type" content="text/html; charset=UTF-8"><style type="text/css">body{background-color:#eee;font-family:Microsoft Yahei,Arial,Verdana,sans-serif;font-size:12px;color:#333;margin:0;padding:0}.input{width:330px;color:#333;border:2px solid #bbb;background-color:#eee;padding:5px 8px}.form p{margin: 15px 0;}.form p .title{width:120px; text-align:right;display: block;float: left;margin-right: 10px;line-height: 30px;}.form .btnBox{margin-left: 135px;}#init{width: 600px;margin: auto;margin-top: 30px;padding: 5px;}</style></head><body><div id="init"><form action="" method="post" onsubmit="" class="form"><p><b class="title"></b><h1 class="">站点数据初始化</h1></p><p><b class="title">数据库*类型</b><label><input type="radio" name="db_type" value="sqlite" onclick="set_db_type(this.value);">Sqlite</label><label><input type="radio" name="db_type" value="mysqli" onclick="set_db_type(this.value);">Mysqli</label></p><p class="db-config mysqli"><b class="title">数据库*主机名</b><input type="text" name="db_host" placeholder="127.0.0.1:3306" class="input"></p><p class="db-config mysqli sqlite"><b class="title">数据库*名称</b><input type="text" name="db_name" placeholder="esite" class="input"></p><p class="db-config mysqli"><b class="title">数据库*用户名</b><input type="text" name="db_username" placeholder="" class="input"></p><p class="db-config mysqli"><b class="title">数据库*密码</b><input type="text" name="db_password" placeholder="" class="input"></p><p class=""><b class="title">站点入口URL</b><input type="text" name="baseurl" placeholder="http://localhost.com/" class="input"></p><p class="btnBox"><input type="submit" class="btn" value="立即初始化"><br><br><a href="/LICENSE" target="_blank">使用协议</a>&nbsp;&nbsp;<a href="/">返回首页</a></p></form></div><script>var fc = {};fc.display = function(el, _display){	var els = document.querySelectorAll(el);	for(var k in els){if( typeof(els[k].style)!='undefined' )els[k].style.display=_display||'inline';}};window.onload = function(){	fc.display('.db-config', 'none');document.querySelector('input[name="db_type"][value="mysqli"]').click();};function set_db_type(db_type){fc.display('.db-config', 'none');fc.display('.db-config.'+db_type, 'block');document.querySelector('input[name="db_name"]').setAttribute('placeholder', db_type=='sqlite'?'esite.db':'esite');document.querySelector('input[name="baseurl"]').value=location.origin+location.pathname;}</script></body></html>
 
 S;
